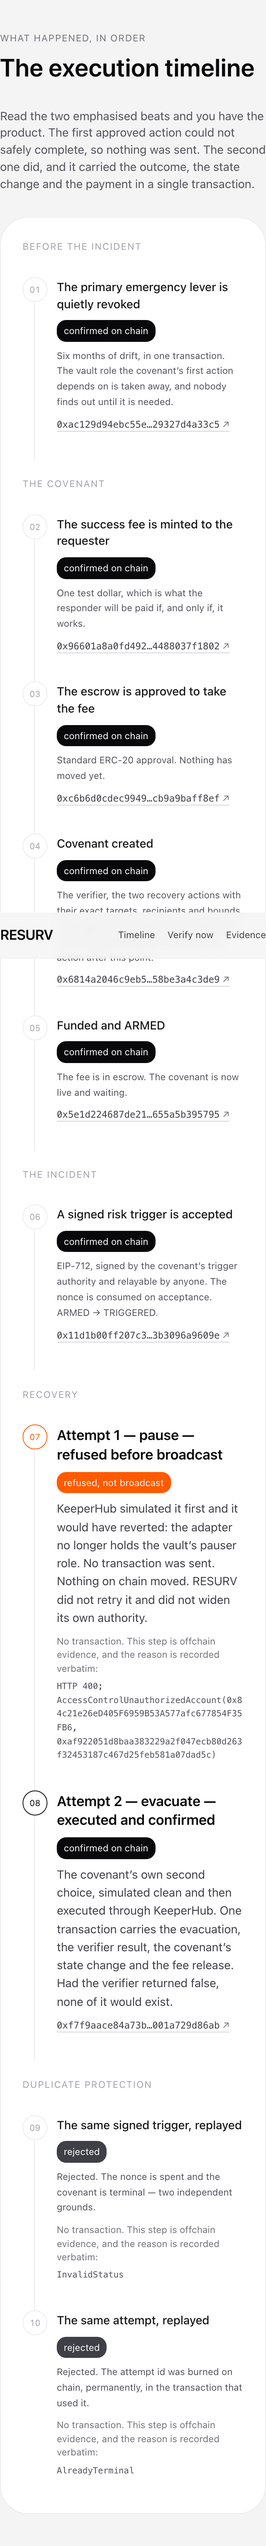
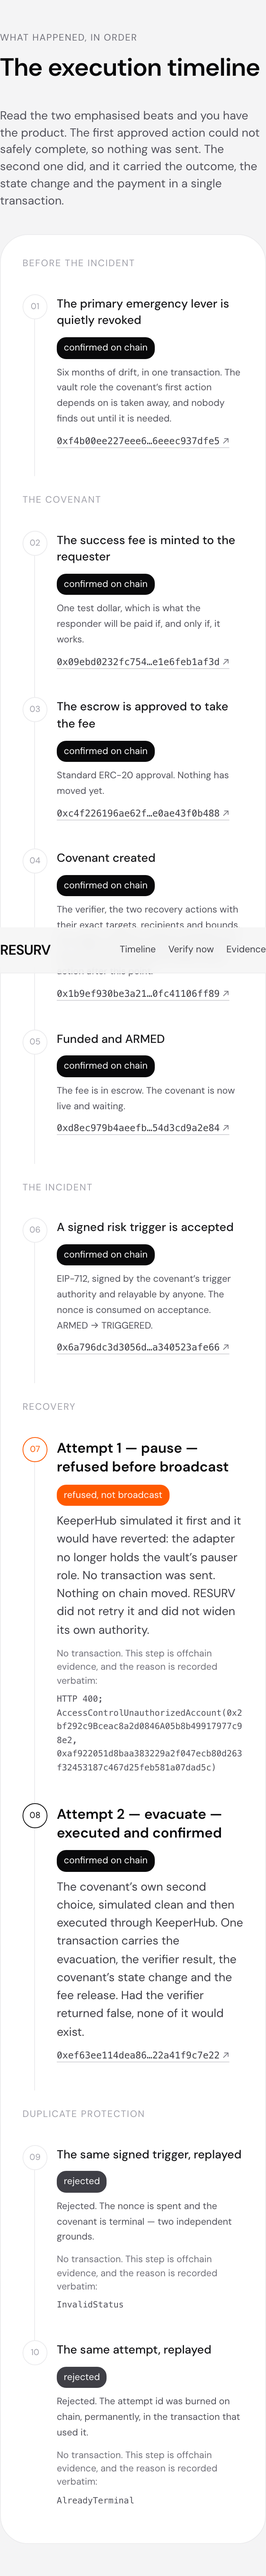
Recapture the proof surface against the new run, and fix the cache bug that hid it
The first recapture after the redeployment produced screenshots still showing the
previous run's transaction hashes. The receipt on disk was correct; the build was
not. `packages/proof` imports `deployments/base-sepolia.json` and
`docs/proof/canonical-covenant.json` through relative paths that leave its own
package directory, so turbo's per-package input hashing could not see them, and a
regenerated receipt left every downstream build cached. Both files are now global
dependencies, which is what they are: inputs to the whole graph rather than to one
package.

Worth stating plainly because the failure mode is the one this project exists to
avoid. Nothing was wrong with the evidence. The surface that displays it was stale
and looked authoritative, which is exactly how a proof page becomes a lie without
anybody editing a number.

diff --git a/docs/BUILD_STATE.md b/docs/BUILD_STATE.md
@@ -2,7 +2,7 @@
 
 Canonical handoff document. Read this first in a new session.
 
-Last updated: 2026-08-13, end of the release pass.
+Last updated: 2026-08-13, after the redeployment and the fresh canonical run.
 
 ## Where we are
 
@@ -28,7 +28,9 @@ wallet and no faucet.
 
 | | |
 |---|---|
[2 lines of base64/hex data omitted]
+| Deployed from | commit `b9f8722`, salt namespace `resurv/v4` |
+| Previous generation | `deployments/historical/base-sepolia-v3.json`, superseded |
[1 lines of base64/hex data omitted]
 | Manager | `0x8e4c71d6c99a10f442e70fd236c3d583d9d9d284` |
 | Receipt | `docs/proof/canonical-covenant.json` |

diff --git a/docs/FINAL_BUILD_REPORT.md b/docs/FINAL_BUILD_REPORT.md
@@ -244,6 +244,9 @@ cast call 0x8e4c71d6c99a10f442e70fd236c3d583d9d9d284 "statusOf(bytes32)(uint8)" 
 | Commit | see `git log -1` at the tip of `main` |
 | Working tree | clean |
 | Branch | `main`, pushed to https://github.com/winsznx/resurv |
+| Deployed source | commit `b9f8722`, recorded in `deployments/base-sepolia.json`. `git diff b9f8722 -- packages/contracts/` is empty |
+| Canonical transaction | [`0xef63ee11…`](https://sepolia.basescan.org/tx/0xef63ee114dea86da25f1d38802be8bfbdcce166a140f322d283f22a41f9c7e22), block 45421180, two origins agree |
+| Source verification | five of six on Sourcify at `match`; `ResurvCovenantManager` answered `no_match` three times and is **not** verified |
 | Gate | exit 0, locally and on a clean GitHub runner |
 
 ## What the independent reviewer should attack first
